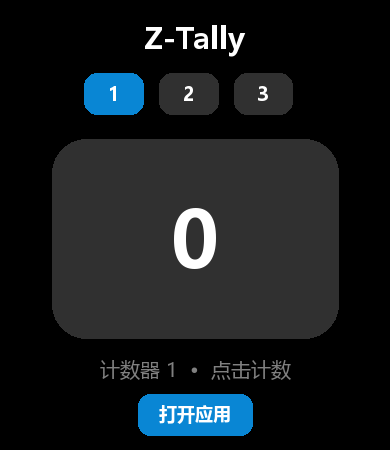
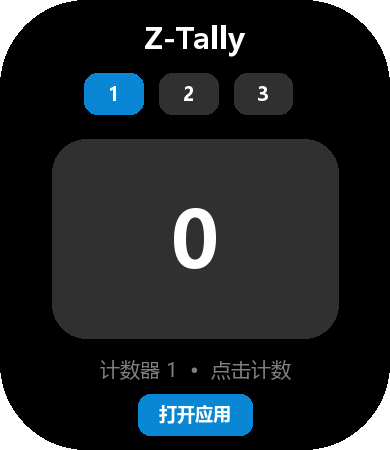
Prepare version 1.1.2 release assets

diff --git a/tools/generate_widget_previews.py b/tools/generate_widget_previews.py
@@ -4,7 +4,11 @@ from PIL import Image, ImageDraw, ImageFont
 
 
 PROJECT_DIR = Path(__file__).parent.parent
+PICTURES_DIR = PROJECT_DIR.parent / "Pictures"
 FONT_DIR = Path("C:/Windows/Fonts")
+INDEXED_COLORS = 255
+TRANSPARENT_INDEX = 255
+SQUARE_CORNER_RADIUS = 86
 
 
 def font(size: int, bold: bool = False, locale: str = "en-US") -> ImageFont.FreeTypeFont:
@@ -33,7 +37,40 @@ def scaled_box(box: tuple[int, int, int, int], sx: float, sy: float) -> tuple[in
     return tuple(round(value * factor) for value, factor in zip(box, (sx, sy, sx, sy)))
 
 
-def render(width: int, height: int, output: Path, locale: str) -> None:
+def save_indexed(image: Image.Image, output: Path, corner_radius: int | None = None) -> None:
+    indexed = image.quantize(
+        colors=INDEXED_COLORS,
+        method=Image.Quantize.MEDIANCUT,
+        dither=Image.Dither.NONE,
+    )
+
+    if corner_radius is not None:
+        mask = Image.new("L", image.size, 0)
+        ImageDraw.Draw(mask).rounded_rectangle(
+            (0, 0, image.width - 1, image.height - 1),
+            radius=corner_radius,
+            fill=255,
+        )
+        outside = Image.eval(mask, lambda value: 255 - value)
+        indexed.paste(TRANSPARENT_INDEX, mask=outside)
+
+        palette = indexed.getpalette() or []
+        palette.extend([0] * (768 - len(palette)))
+        indexed.putpalette(palette[:768])
+        indexed.info["transparency"] = TRANSPARENT_INDEX
+
+    output.parent.mkdir(parents=True, exist_ok=True)
+    indexed.save(output, "PNG", optimize=True)
+    print(f"Wrote {output}")
+
+
+def render(
+    width: int,
+    height: int,
+    output: Path,
+    locale: str,
+    corner_radius: int | None = None,
+) -> None:
     sx = width / 480
     sy = height / 480
     uniform = min(sx, sy)
@@ -70,20 +107,20 @@ def render(width: int, height: int, output: Path, locale: str) -> None:
         "#ffffff",
     )
 
-    output.parent.mkdir(parents=True, exist_ok=True)
-    image.save(output, "PNG", optimize=True)
-    print(f"Wrote {output}")
+    save_indexed(image, output, corner_radius)
 
 
 def main() -> None:
     targets = [
-        (480, 480, PROJECT_DIR / "assets" / "round.r"),
-        (390, 450, PROJECT_DIR / "assets" / "square.w390-s"),
+        (480, 480, "round", PROJECT_DIR / "assets" / "round.r", None),
+        (390, 450, "square", PROJECT_DIR / "assets" / "square.w390-s", SQUARE_CORNER_RADIUS),
     ]
-    for width, height, directory in targets:
-        render(width, height, directory / "widget-preview.png", "en-US")
-        render(width, height, directory / "widget-preview_en-US.png", "en-US")
-        render(width, height, directory / "widget-preview_zh-CN.png", "zh-CN")
+    for width, height, shape, asset_directory, corner_radius in targets:
+        render(width, height, PICTURES_DIR / f"widget-preview-{shape}.png", "en-US", corner_radius)
+        render(width, height, PICTURES_DIR / f"widget-preview-{shape}_en-US.png", "en-US", corner_radius)
+        render(width, height, PICTURES_DIR / f"widget-preview-{shape}_zh-CN.png", "zh-CN", corner_radius)
+        render(width, height, asset_directory / "widget-preview_en-US.png", "en-US", corner_radius)
+        render(width, height, asset_directory / "widget-preview_zh-CN.png", "zh-CN", corner_radius)
 
 
 if __name__ == "__main__":
